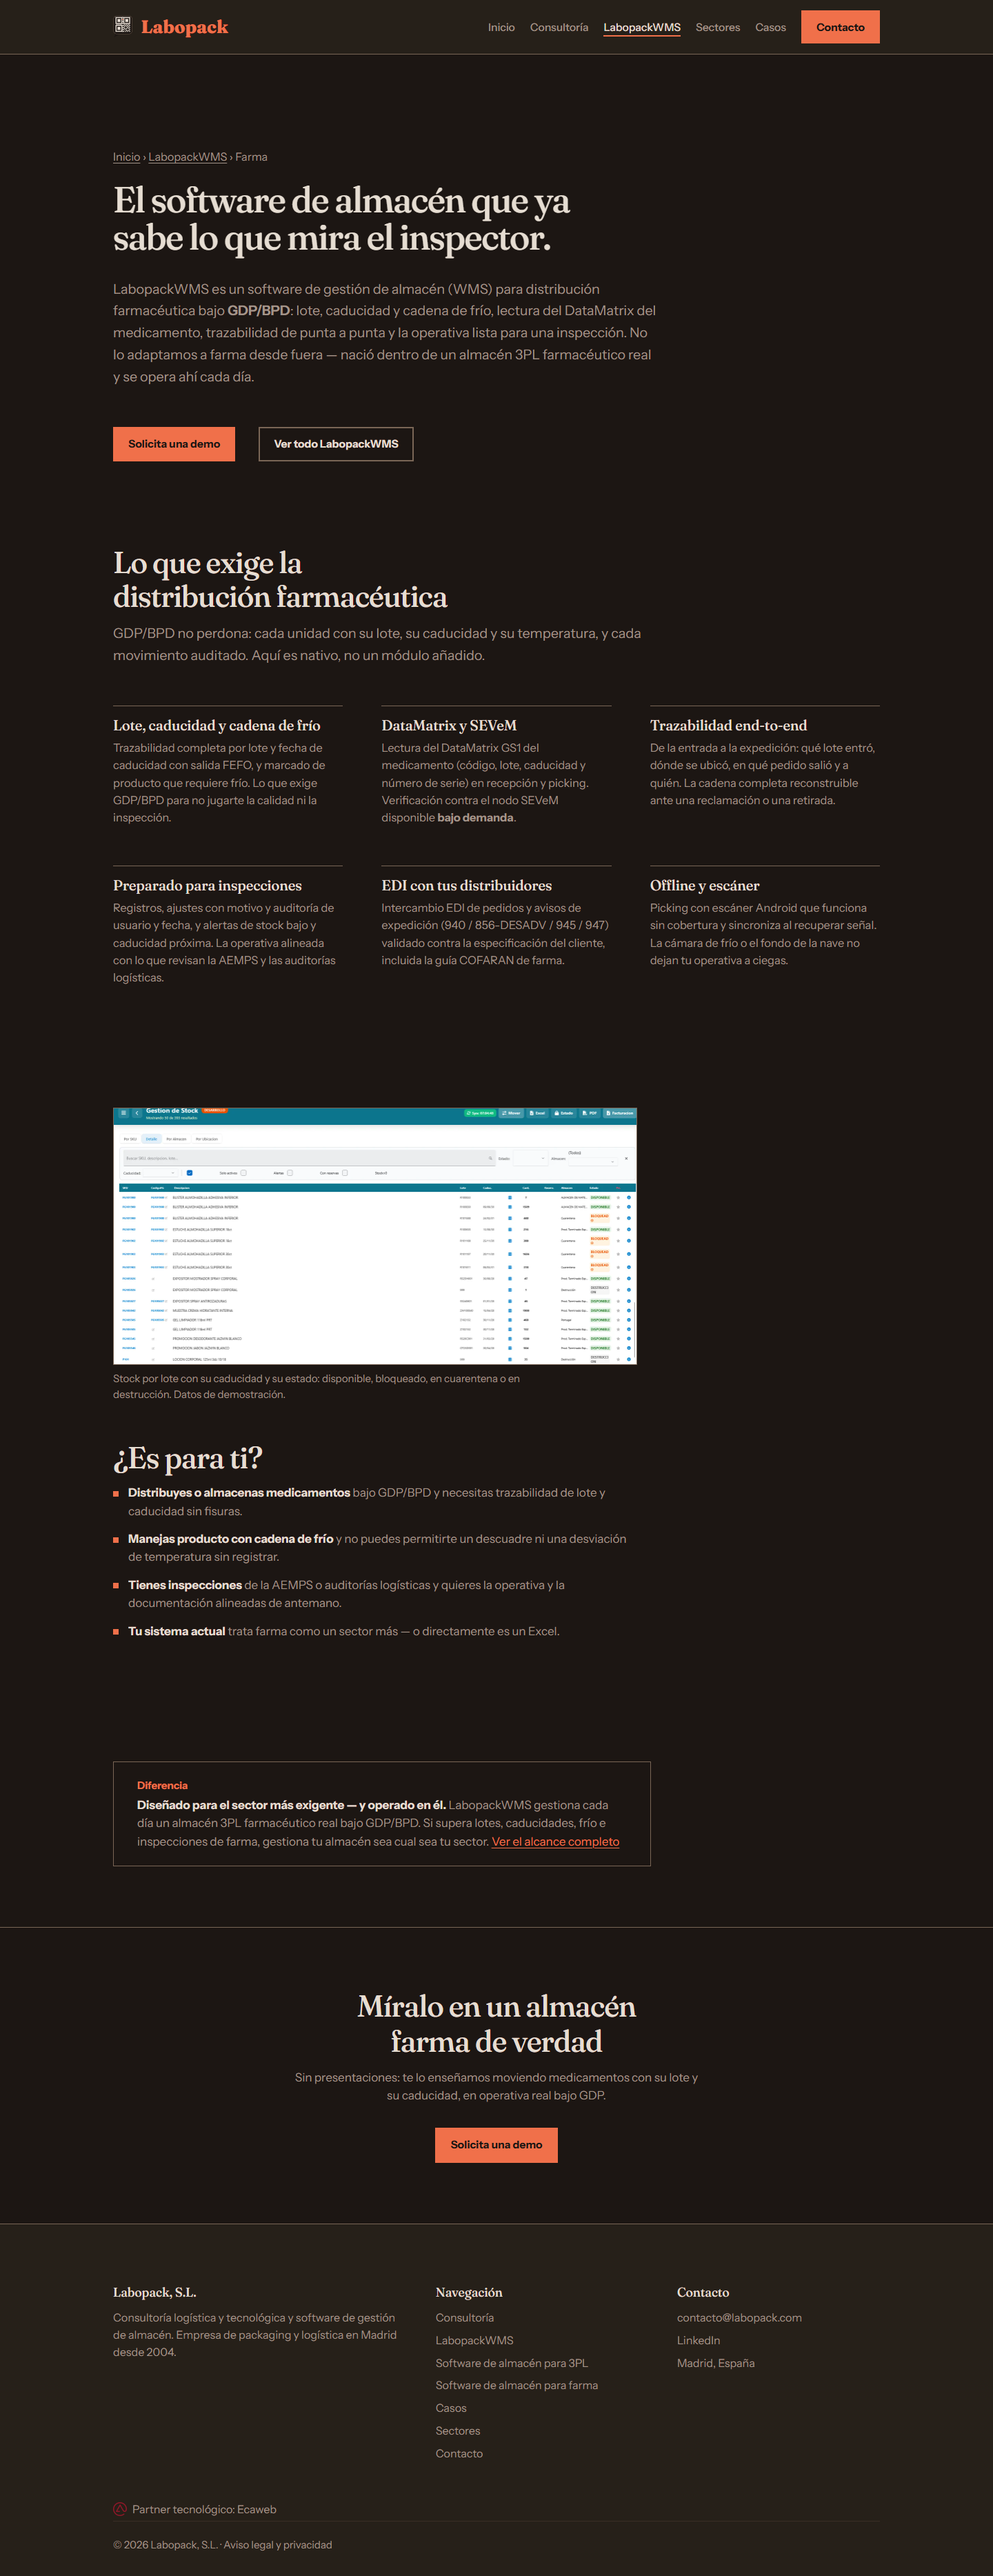
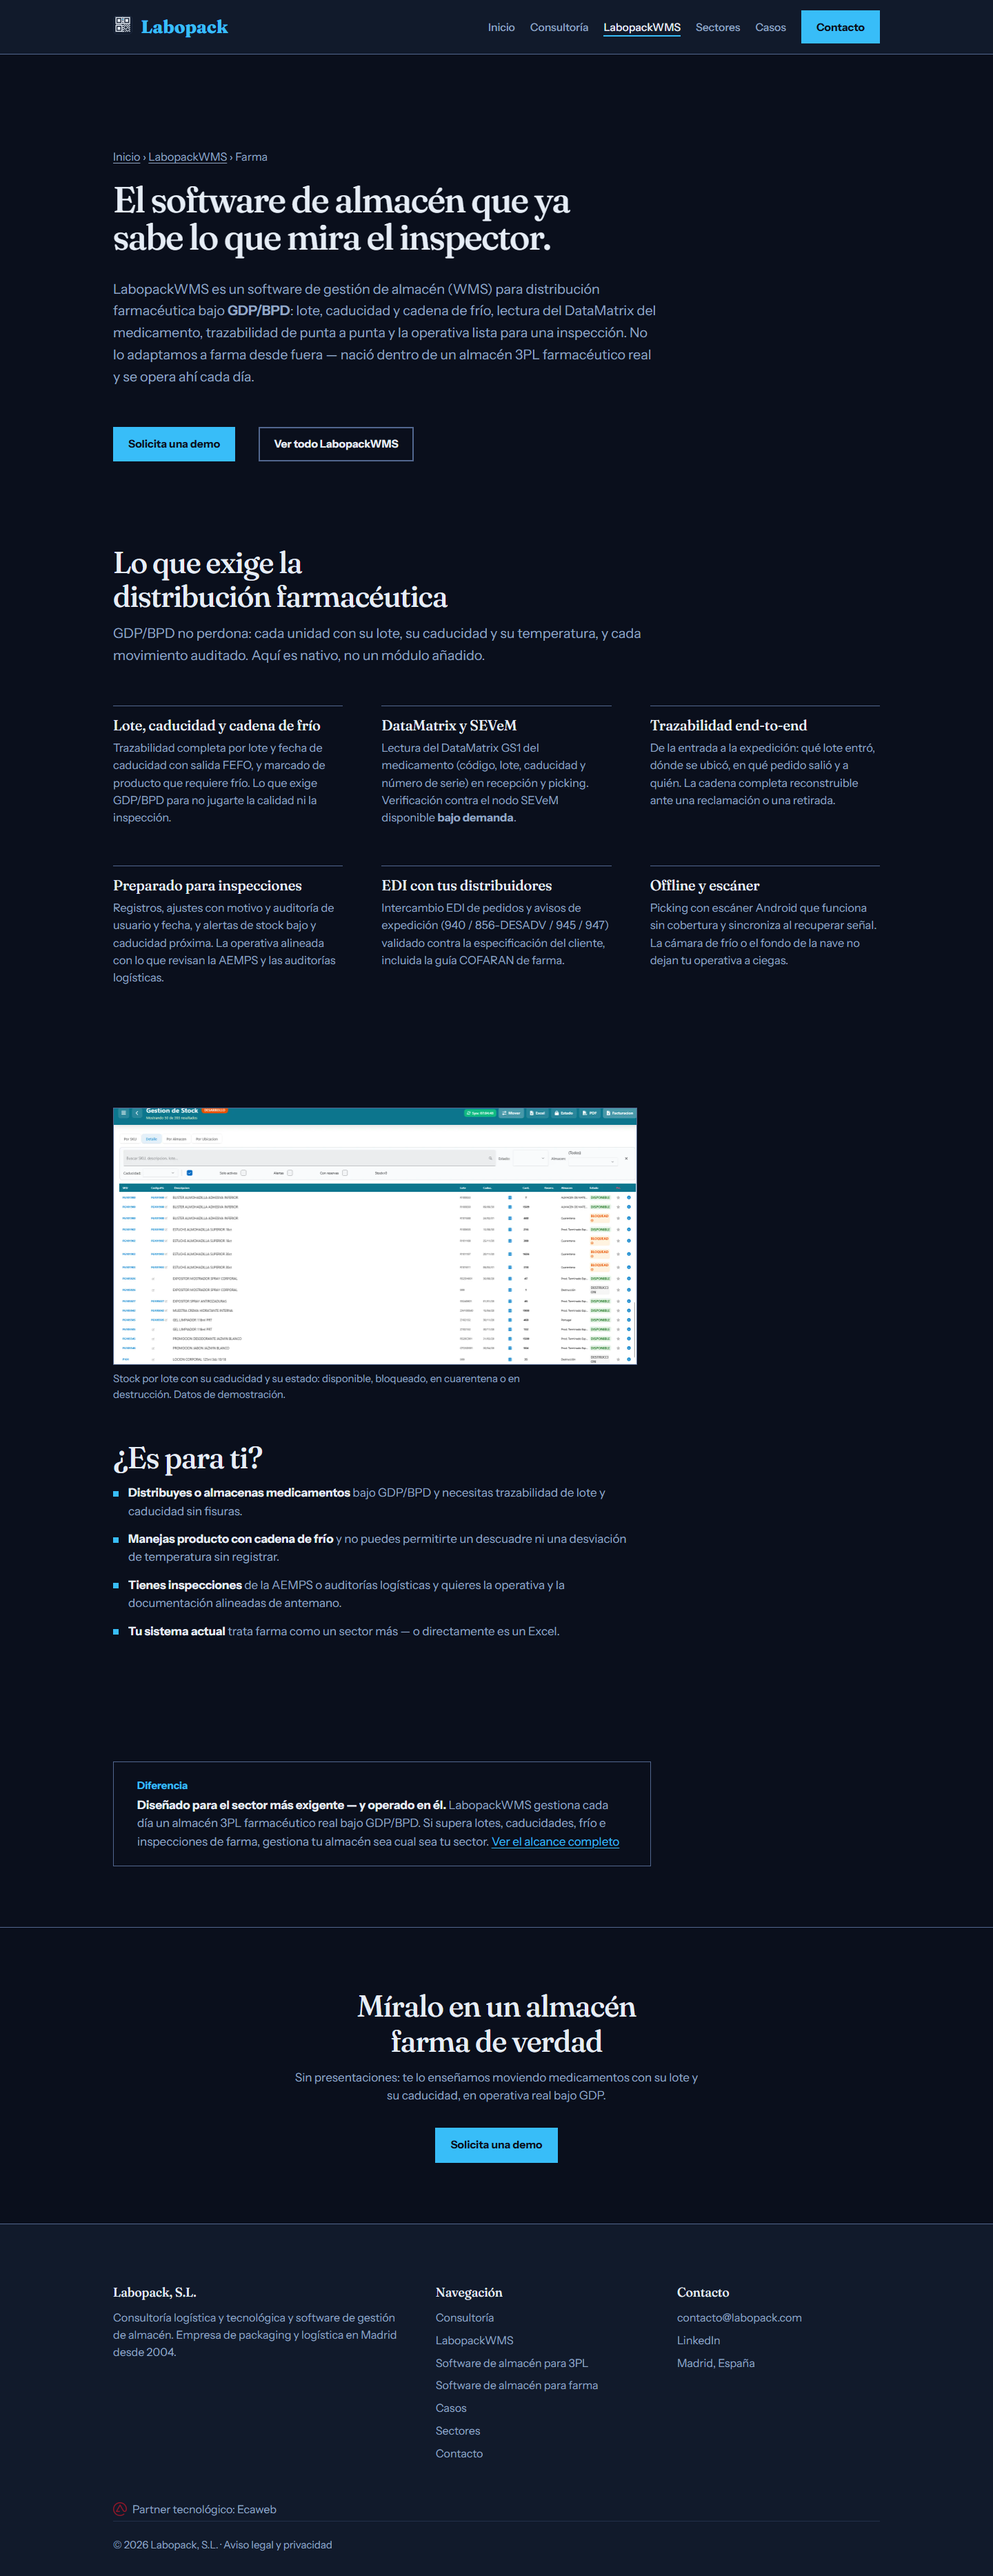
Direccion «Marino»: el azul se queda, los rasgos de plantilla no
El brief listaba "fondo azul marino con acento celeste" entre los rasgos a
sustituir y mandaba derivar la paleta del rojo teja del logo. Era un error de
diagnostico, y ha costado dos direcciones comprobarlo: «Muelle» (hormigon y
teja) y «Turno de noche» (umbrio calido y brasa) se montaron enteras y las dos
salieron mas apagadas que lo que sustituian.

El azul no era el problema. Ademas es lo coherente con el producto: la interfaz
de LabopackWMS es turquesa, y las cuatro capturas lo son. La web azul y la app
turquesa hablaban el mismo idioma; el que desentona es el logo rojo.

Lo que si delataba una plantilla eran los detalles, y esos se quedan fuera:
emojis como iconos, tarjetas con degradado que se elevan al hover, la franja de
cuatro cifras centradas, el antetitulo en mayusculas espaciadas, el desenfoque
de la cabecera, Segoe UI y las flechas pegadas al texto de los enlaces.

Lo que aporta el redisenno sobre la web original:
- El producto en portada, a todo el ancho del contenedor. Antes no se veia ni
  un pixel de LabopackWMS en la home.
- Fraunces e Instrument Sans en lugar de Segoe UI. Ahora que el color se
  conserva, la tipografia es lo que mas la distingue de su version anterior.
- Bloques compuestos segun su contenido: las dos vias a 5fr/7fr, las razones
  como banda densa, las cifras como lista medida y la cita como momento.
- Las capturas de producto en /wms/, /wms/3pl/ y /wms/farma/, saneadas.
[…]

diff --git a/assets/styles.css b/assets/styles.css
@@ -20,16 +20,19 @@
 }
 
 
+
 :root {
-  /* Turno de noche. El almacen a oscuras y el resplandor del escaner.
+  /* El azul marino y el celeste de la web original. No eran un rasgo de
+     plantilla: son el activo de color que ya funcionaba, y son lo coherente
+     con la interfaz de LabopackWMS, que es turquesa.
      Contrastes medidos en la skill: no cambiar sin volver a medir. */
-  --noche: #1C1613;        /* fondo de pagina: umbrio calido, no azulado */
-  --noche-2: #262019;      /* superficie elevada: cabecera, pie, destacados */
-  --crema: #E6DDD2;        /* texto principal, el crema del favicon */
-  --apagado: #A3958A;      /* texto secundario */
-  --linea: #3A2E26;        /* separadores decorativos */
-  --linea-fuerte: #7A6656; /* bordes que delimitan un control */
-  --brasa: #F0704A;        /* UNICO color de acento: la parada alta del logo */
+  --marino: #0A0F1C;       /* fondo de pagina */
+  --marino-2: #111A2B;     /* superficie elevada: cabecera, pie, destacados */
+  --texto: #E6EDF6;        /* texto principal */
+  --apagado: #93A7C4;      /* texto secundario */
+  --linea: #223049;        /* separadores decorativos */
+  --linea-fuerte: #52678F; /* bordes que delimitan un control */
+  --cian: #38BDF8;         /* UNICO color de acento */
 
   /* Espaciado: multiplos de 4 con saltos deliberados. */
   --e1: 4px;  --e2: 8px;   --e3: 14px;  --e4: 22px;
@@ -51,8 +54,8 @@ html {
 
 body {
   margin: 0;
-  background: var(--noche);
-  color: var(--crema);
+  background: var(--marino);
+  color: var(--texto);
   font-family: "Instrument Sans", system-ui, sans-serif;
   font-size: 1rem;
   line-height: 1.55;
@@ -74,13 +77,13 @@ h1, h2, h3, h4 {
 p { margin: 0 0 var(--e4); max-width: var(--medida); }
 p:last-child { margin-bottom: 0; }
 
-a { color: var(--brasa); text-decoration-thickness: 1px; text-underline-offset: 3px; }
+a { color: var(--cian); text-decoration-thickness: 1px; text-underline-offset: 3px; }
 a:hover { text-decoration-thickness: 2px; }
 
 img { max-width: 100%; height: auto; }
 
 :focus-visible {
-  outline: 3px solid var(--brasa);
+  outline: 3px solid var(--cian);
   outline-offset: 2px;
 }
 
@@ -100,7 +103,7 @@ img { max-width: 100%; height: auto; }
 /* ---------- Cabecera ---------- */
 
 .site-header {
-  background: var(--noche-2);
+  background: var(--marino-2);
   border-bottom: 1px solid var(--linea-fuerte);
 }
 
@@ -117,7 +120,7 @@ img { max-width: 100%; height: auto; }
   gap: 11px;
   margin-right: auto;
   text-decoration: none;
-  color: var(--brasa);
+  color: var(--cian);
 }
 .brand-logo { display: block; height: 34px; width: auto; }
 .brand-nombre {
@@ -144,8 +147,8 @@ img { max-width: 100%; height: auto; }
   padding-bottom: 2px;
   border-bottom: 2px solid transparent;
 }
-.nav-links a:not(.btn):hover { color: var(--crema); border-bottom-color: var(--linea-fuerte); }
-.nav-links a:not(.btn)[aria-current] { color: var(--crema); border-bottom-color: var(--brasa); }
+.nav-links a:not(.btn):hover { color: var(--texto); border-bottom-color: var(--linea-fuerte); }
+.nav-links a:not(.btn)[aria-current] { color: var(--texto); border-bottom-color: var(--cian); }
 .nav-links a.btn { border-bottom: 0; }
 
 /* Menú de móvil sin JavaScript: una casilla gobierna el desplegable.
@@ -158,19 +161,19 @@ img { max-width: 100%; height: auto; }
 
 .btn {
   display: inline-block;
-  background: var(--brasa);
-  color: var(--noche);
+  background: var(--cian);
+  color: var(--marino);
   text-decoration: none;
   font-weight: 700;
   font-size: 0.92rem;
   padding: 11px 20px;
-  border: 2px solid var(--brasa);
+  border: 2px solid var(--cian);
 }
-.btn:hover { background: var(--crema); border-color: var(--crema); color: var(--noche); }
+.btn:hover { background: var(--texto); border-color: var(--texto); color: var(--marino); }
 
 .btn.ghost {
   background: transparent;
-  color: var(--crema);
+  color: var(--texto);
   border-color: var(--linea-fuerte);
 }
 /* Sobre la banda oscura el acento es --brasa, la parada alta del logo. --teja
@@ -178,20 +181,20 @@ img { max-width: 100%; height: auto; }
    acento de marca, en la version que esa superficie admite. */
 /* Las migas viven dentro de la banda oscura. */
 .hero .breadcrumb, .hero .breadcrumb a { color: var(--apagado); }
-.hero .breadcrumb a:hover { color: var(--brasa); }
-.btn.ghost:hover { background: transparent; border-color: var(--brasa); color: var(--brasa); }
+.hero .breadcrumb a:hover { color: var(--cian); }
+.btn.ghost:hover { background: transparent; border-color: var(--cian); color: var(--cian); }
 
 /* El enlace de acción se marca con subrayado, no con un carácter. */
 .more {
   display: inline-block;
   font-weight: 600;
   font-size: 0.95rem;
-  color: var(--crema);
+  color: var(--texto);
   text-decoration: none;
-  border-bottom: 2px solid var(--brasa);
+  border-bottom: 2px solid var(--cian);
   padding-bottom: 1px;
 }
-.more:hover { color: var(--brasa); }
+.more:hover { color: var(--cian); }
 
 .cta-row.centrada { justify-content: center; }
 .cta-row {
@@ -260,7 +263,7 @@ img { max-width: 100%; height: auto; }
   gap: clamp(var(--e4), 4vw, var(--e6));
   align-items: baseline;
   padding: var(--e4) 0;
-  border-bottom: 1px solid rgba(230, 221, 210, 0.14);
+  border-bottom: 1px solid rgba(230, 237, 246, 0.14);
 }
 .stat .num {
   font-family: Fraunces, Georgia, serif;
@@ -268,7 +271,7 @@ img { max-width: 100%; height: auto; }
   font-weight: 800;
   letter-spacing: -0.03em;
   line-height: 1;
-  color: var(--crema);
+  color: var(--texto);
   text-align: right;
   font-variant-numeric: tabular-nums;
 }
@@ -306,7 +309,7 @@ section.cifras { padding-top: 0; padding-bottom: var(--e7); }
   flex-direction: column;
   gap: var(--e4);
   background: transparent;
-  border-top: 3px solid var(--brasa);
+  border-top: 3px solid var(--cian);
   padding-top: var(--e4);
 }
 .path-card h3 {
@@ -336,7 +339,7 @@ section.cifras { padding-top: 0; padding-bottom: var(--e7); }
   align-items: start;
 }
 .vias .path-card:last-child {
-  background: var(--noche-2);
+  background: var(--marino-2);
   padding: var(--e5);
   border-top-width: 5px;
 }
@@ -344,12 +347,12 @@ section.cifras { padding-top: 0; padding-bottom: var(--e7); }
 /* ---------- Las tres razones: banda densa, no tres columnas de aire ---------- */
 
 .razones {
-  background: var(--noche-2);
+  background: var(--marino-2);
   border-top: 1px solid var(--linea-fuerte);
   border-bottom: 1px solid var(--linea-fuerte);
 }
 .razones .grid.cols-3 { gap: var(--e5); }
-.razones .card { border-top-color: var(--brasa); border-top-width: 3px; }
+.razones .card { border-top-color: var(--cian); border-top-width: 3px; }
 .razones .card h3 { font-size: 1.35rem; }
 
 /* ---------- La cita: el segundo momento, no una linea mas ---------- */
@@ -368,7 +371,7 @@ section.cifras { padding-top: 0; padding-bottom: var(--e7); }
   width: fit-content;
   margin-top: var(--e5);
   padding-top: var(--e3);
-  border-top: 3px solid var(--brasa);
+  border-top: 3px solid var(--cian);
 }
 
 /* ---------- Tarjetas: sin caja, separadas por una regla ---------- */
@@ -403,16 +406,16 @@ section.cifras { padding-top: 0; padding-bottom: var(--e7); }
   top: 0.62em;
   width: var(--e2);
   height: var(--e2);
-  background: var(--brasa);
+  background: var(--cian);
 }
-.checklist li strong { color: var(--crema); }
+.checklist li strong { color: var(--texto); }
 
 /* ---------- Cita ---------- */
 
 .claim {
   font-family: Fraunces, Georgia, serif;
   margin: 0;
-  border-left: 3px solid var(--brasa);
+  border-left: 3px solid var(--cian);
   padding-left: var(--e5);
   font-size: clamp(1.25rem, 2.4vw, 1.7rem);
   font-weight: 500;
@@ -451,7 +454,7 @@ section.cifras { padding-top: 0; padding-bottom: var(--e7); }
 /* ---------- Pie ---------- */
 
 .site-footer {
-  background: var(--noche-2);
+  background: var(--marino-2);
   border-top: 1px solid var(--linea-fuerte);
   padding: var(--e7) 0 var(--e5);
   font-size: 0.94rem;
@@ -470,7 +473,7 @@ section.cifras { padding-top: 0; padding-bottom: var(--e7); }
 .site-footer ul { list-style: none; margin: 0; padding: 0; display: grid; gap: var(--e2); }
 .site-footer li { color: var(--apagado); }
 .site-footer a { color: var(--apagado); text-decoration: none; }
-.site-footer a:hover { color: var(--brasa); text-decoration: underline; }
+.site-footer a:hover { color: var(--cian); text-decoration: underline; }
 
 .footer-partner-row { margin: 0 0 var(--e4); }
 .footer-partner a {
@@ -504,7 +507,7 @@ section.cifras { padding-top: 0; padding-bottom: var(--e7); }
 }
 .flow .step {
   font-weight: 700;
-  color: var(--crema);
+  color: var(--texto);
   white-space: nowrap;
 }
 /* Son texto, asi que les aplica el 4.5 de AA: --linea-fuerte (3.30) no vale.
@@ -520,8 +523,8 @@ section.cifras { padding-top: 0; padding-bottom: var(--e7); }
 .module-group { margin-top: var(--e7); }
 .module-group > h3 {
   font-size: 1.35rem;
-  color: var(--crema);
-  border-top: 3px solid var(--brasa);
+  color: var(--texto);
+  border-top: 3px solid var(--cian);
   padding-top: var(--e3);
   margin: 0 0 var(--e2);
 }
@@ -548,18 +551,18 @@ section.cifras { padding-top: 0; padding-bottom: var(--e7); }
   border-bottom: 1px solid var(--linea);
 }
 .spec-table th {
-  color: var(--crema);
+  color: var(--texto);
   font-weight: 700;
   font-size: 0.92rem;
-  border-bottom: 2px solid var(--crema);
+  border-bottom: 2px solid var(--texto);
 }
 .spec-table td { color: var(--apagado); }
-.spec-table td:first-child { color: var(--crema); font-weight: 600; }
+.spec-table td:first-child { color: var(--texto); font-weight: 600; }
 
 /* La columna propia se destaca con superficie, no con un segundo color. */
-.compare-table col.col-us { background: var(--noche-2); }
-.compare-table th.us { border-bottom-color: var(--brasa); }
-.compare-table td.yes { color: var(--crema); font-weight: 700; }
+.compare-table col.col-us { background: var(--marino-2); }
+.compare-table th.us { border-bottom-color: var(--cian); }
+.compare-table td.yes { color: var(--texto); font-weight: 700; }
 .compare-table td.mid { color: var(--apagado); }
 .compare-note { color: var(--apagado); font-size: 0.85rem; margin: var(--e3) 0 0; }
 
@@ -575,11 +578,11 @@ section.cifras { padding-top: 0; padding-bottom: var(--e7); }
 }
 .partner img.p-logo { width: 56px; height: 56px; flex-shrink: 0; }
 .partner .p-body { margin: 0; color: var(--apagado); max-width: none; }
-.partner .p-body strong { color: var(--crema); }
+.partner .p-body strong { color: var(--texto); }
 .partner .p-rotulo {
   display: block;
   margin-bottom: var(--e1);
-  color: var(--brasa);
+  color: var(--cian);
   font-weight: 700;
   font-size: 0.88rem;
 }
@@ -624,7 +627,7 @@ section.cifras { padding-top: 0; padding-bottom: var(--e7); }
   max-width: none;
 }
 .breadcrumb a { color: var(--apagado); }
-.breadcrumb a:hover { color: var(--brasa); }
+.breadcrumb a:hover { color: var(--cian); }
 
 .article-body { max-width: var(--medida); }
 .article-body > h2 {
@@ -668,7 +671,7 @@ section.cifras { padding-top: 0; padding-bottom: var(--e7); }
    relato a la derecha. Antes la regla roja cruzaba los 1180px sobre una
    columna de texto de 66 caracteres, y la mitad derecha quedaba vacía. */
 .case {
-  border-top: 3px solid var(--brasa);
+  border-top: 3px solid var(--cian);
   padding-top: var(--e4);
   display: grid;
   grid-template-columns: minmax(0, 300px) minmax(0, 1fr);
@@ -722,7 +725,7 @@ section.cifras { padding-top: 0; padding-bottom: var(--e7); }
   margin-bottom: var(--e2);
 }
 .contact-item a, .contact-item div { color: var(--apagado); }
-.contact-item a { color: var(--brasa); }
+.contact-item a { color: var(--cian); }
 
 /* ---------- Movimiento ----------
    Un solo momento por sitio, y solo donde dice algo: los seis pasos del ciclo
@@ -834,10 +837,10 @@ section.cifras { padding-top: 0; padding-bottom: var(--e7); }
   .nav-toggle-label span {
     display: block;
     height: 2px;
-    background: var(--crema);
+    background: var(--texto);
   }
   .nav-toggle:focus-visible + .nav-toggle-label {
-    outline: 3px solid var(--brasa);
+    outline: 3px solid var(--cian);
     outline-offset: 2px;
   }
 
@@ -860,6 +863,6 @@ section.cifras { padding-top: 0; padding-bottom: var(--e7); }
     font-size: 1rem;
     border-bottom: 0;
   }
-  .nav-links a[aria-current] { color: var(--brasa); }
+  .nav-links a[aria-current] { color: var(--cian); }
   .nav-links a.btn { margin: var(--e3) 0; text-align: center; }
 }
